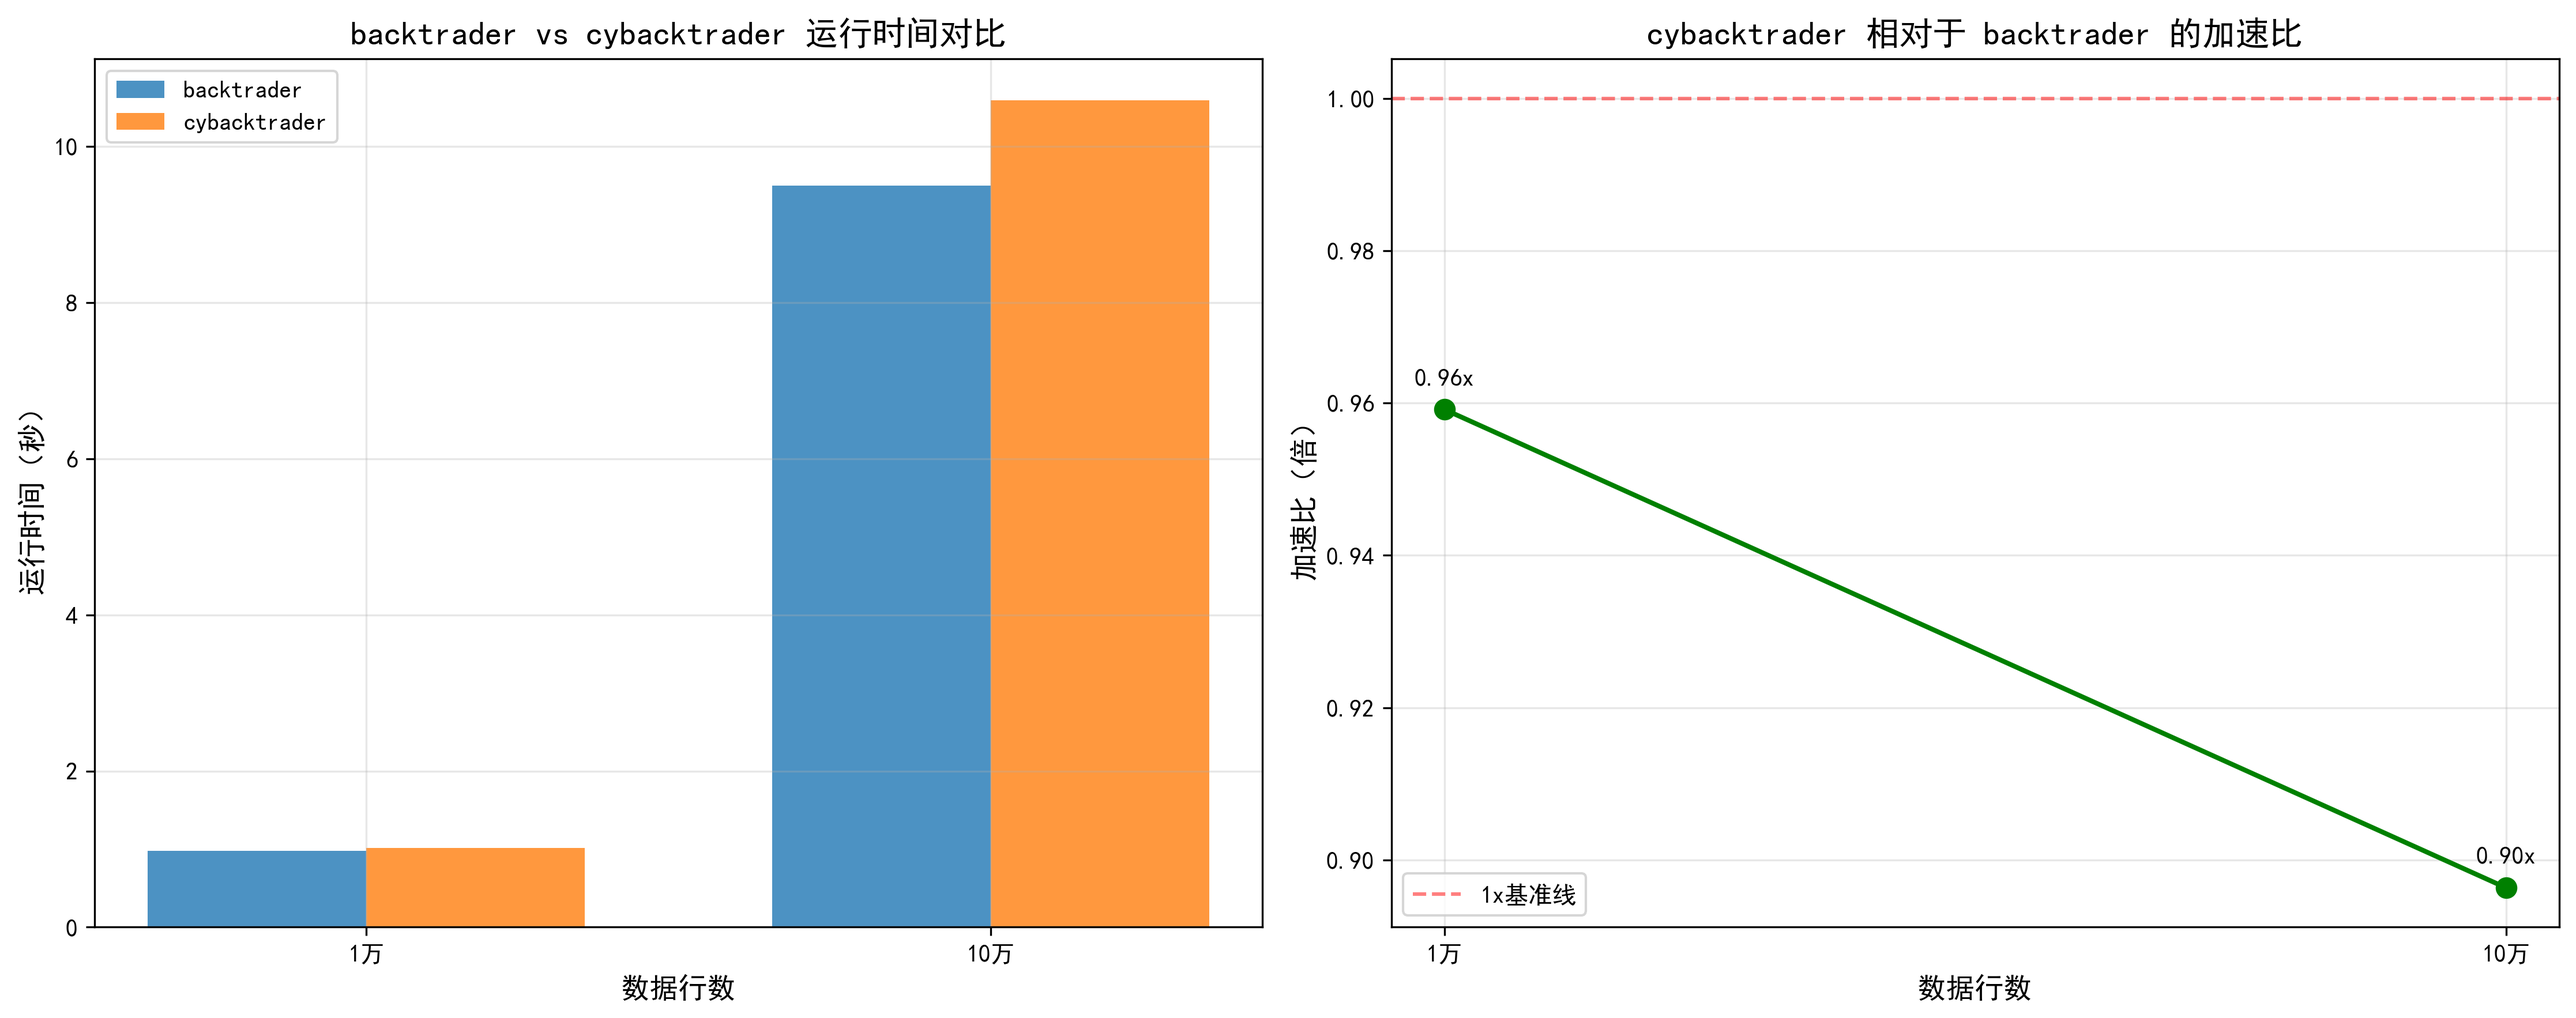
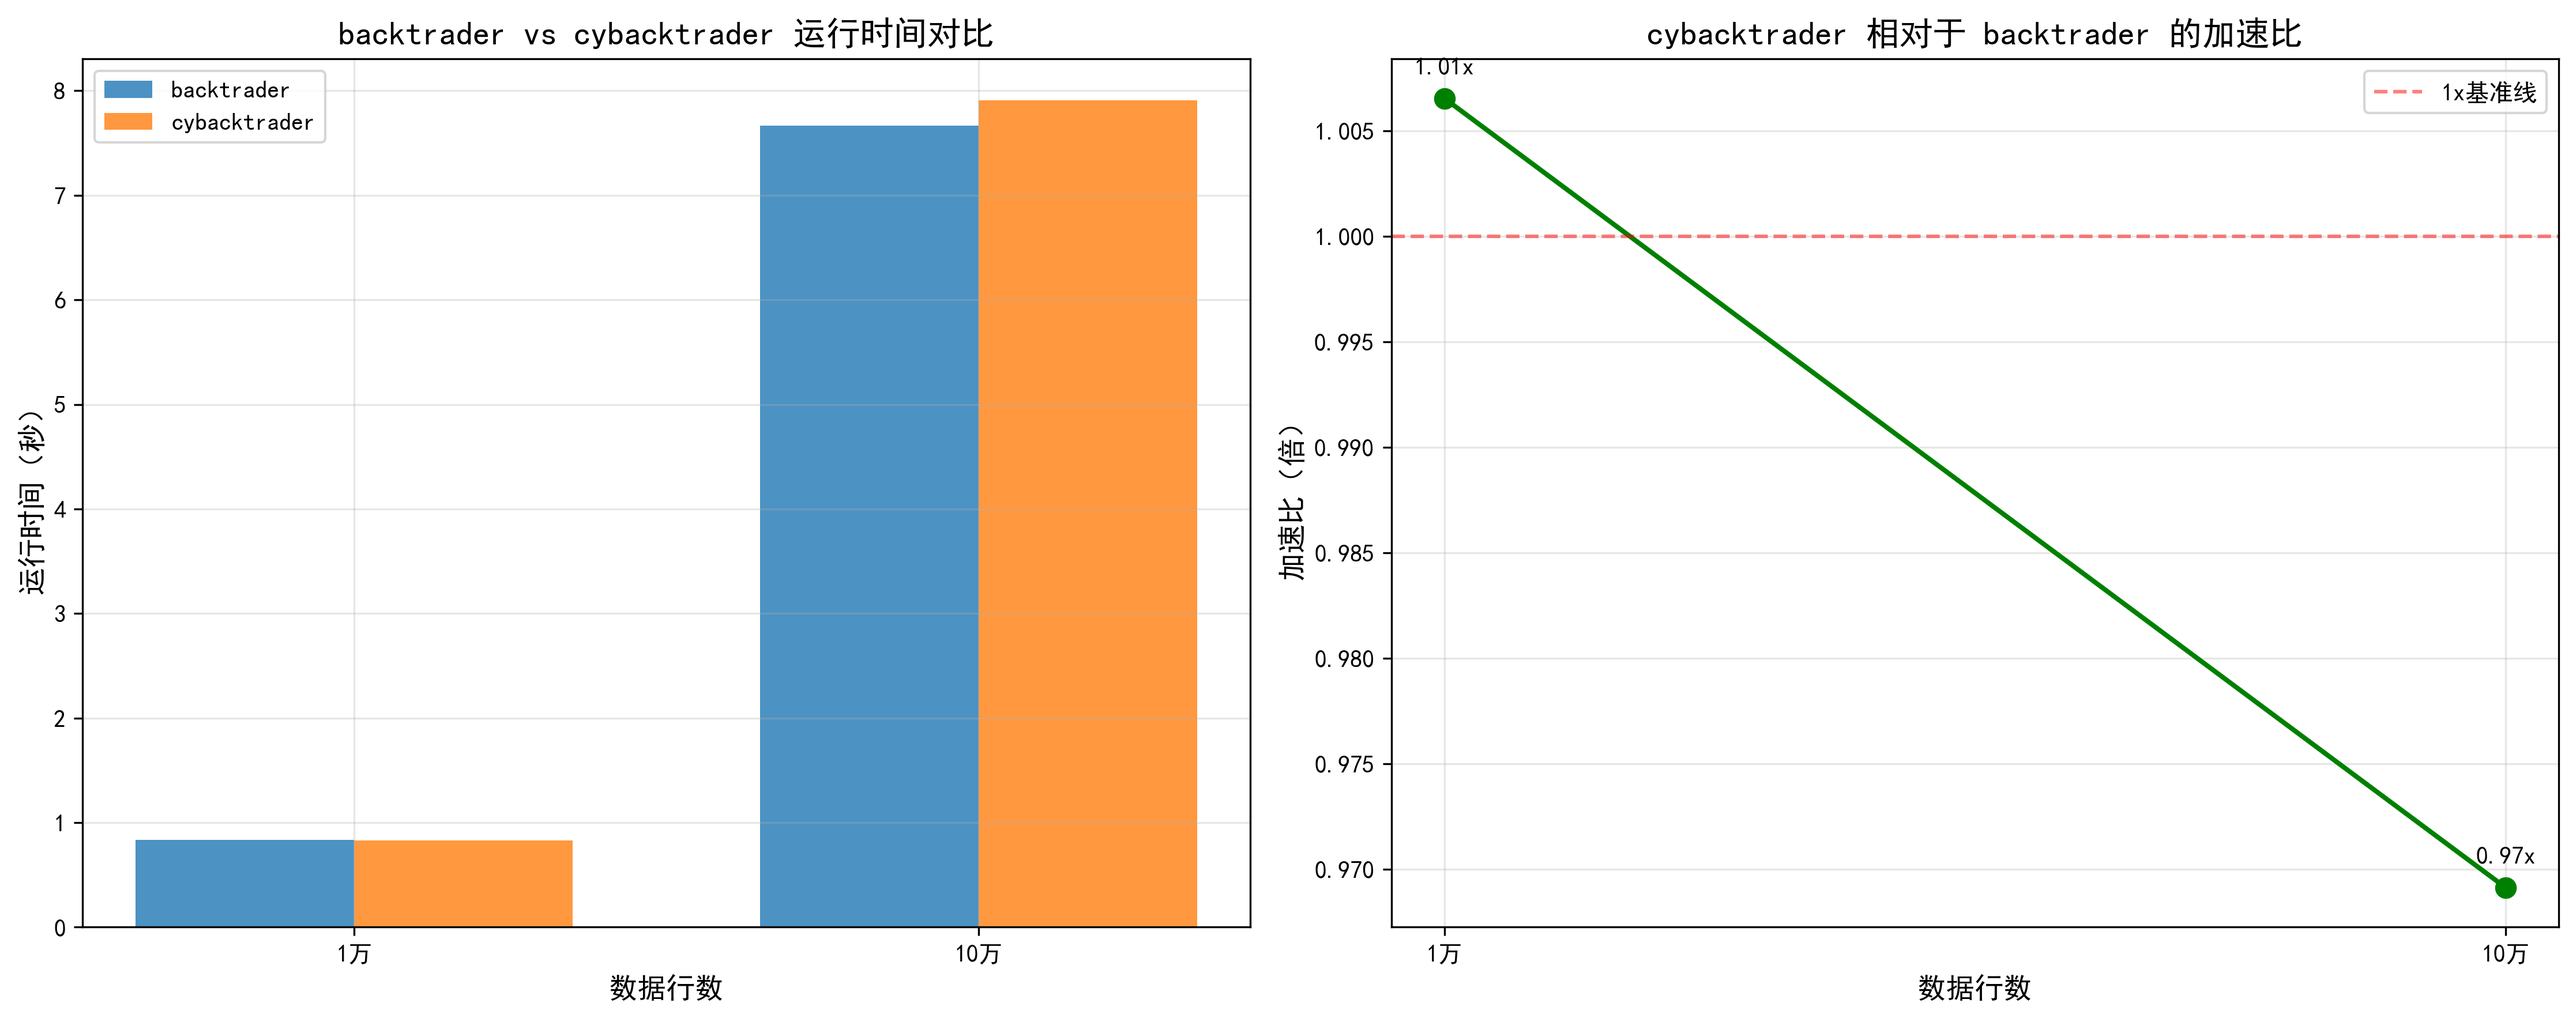
update crossover

diff --git a/需求3.md b/需求3.md
@@ -4,3 +4,170 @@
 2. 确保优化一个文件之后, 运行2,3，能保证2,3都能成功，然后进行下一个
 3. pip install -U .
 4. pytest tests -n 8
+5. 完成一个文件之后，git commit 一个文件，然后进行下一个
+6. 目前暂时不需要进行性能测试，等所有的pyx文件都优化完之后才需要进行性能测试
+
+优化清单（勾选表示已完成优化；状态仅标注“是否已含Cython指令/是否含cdef”作为参考，仍建议逐文件深度重构与验证）
+
+- [ ] cybacktrader\functions.pyx | Cython指令: 是 | cdef: 是
+- [ ] cybacktrader\mathsupport.pyx | Cython指令: 否 | cdef: 否
+- [ ] cybacktrader\indicators\basicops.pyx | Cython指令: 是 | cdef: 是
+- [ ] cybacktrader\writer.pyx | Cython指令: 否 | cdef: 否
+- [ ] cybacktrader\version.pyx | Cython指令: 否 | cdef: 否
+- [ ] cybacktrader\utils\py3.pyx | Cython指令: 否 | cdef: 否
+- [ ] cybacktrader\utils\ordereddefaultdict.pyx | Cython指令: 否 | cdef: 否
+- [ ] cybacktrader\utils\fractal.pyx | Cython指令: 否 | cdef: 否
+- [ ] cybacktrader\utils\flushfile.pyx | Cython指令: 否 | cdef: 否
+- [ ] cybacktrader\utils\dateintern.pyx | Cython指令: 否 | cdef: 否
+- [ ] cybacktrader\utils\date.pyx | Cython指令: 否 | cdef: 否
+- [ ] cybacktrader\utils\autodict.pyx | Cython指令: 否 | cdef: 否
+- [ ] cybacktrader\tradingcal.pyx | Cython指令: 否 | cdef: 否
+- [ ] cybacktrader\trade.pyx | Cython指令: 否 | cdef: 否
+- [ ] cybacktrader\timer.pyx | Cython指令: 否 | cdef: 否
+- [ ] cybacktrader\talib.pyx | Cython指令: 否 | cdef: 否
+- [ ] cybacktrader\stores\vcstore.pyx | Cython指令: 否 | cdef: 否
+- [ ] cybacktrader\stores\vchartfile.pyx | Cython指令: 否 | cdef: 否
+- [ ] cybacktrader\stores\oandastore.pyx | Cython指令: 否 | cdef: 否
+- [ ] cybacktrader\stores\ibstore.pyx | Cython指令: 否 | cdef: 否
+- [ ] cybacktrader\stores\ctpstore.pyx | Cython指令: 否 | cdef: 否
+- [ ] cybacktrader\store.pyx | Cython指令: 否 | cdef: 否
+- [ ] cybacktrader\stores\ccxtstore.pyx | Cython指令: 否 | cdef: 否
+- [ ] cybacktrader\sizers\percents_sizer.pyx | Cython指令: 否 | cdef: 否
+- [ ] cybacktrader\sizers\fixedsize.pyx | Cython指令: 否 | cdef: 否
+- [ ] cybacktrader\sizer.pyx | Cython指令: 否 | cdef: 否
+- [ ] cybacktrader\signal.pyx | Cython指令: 否 | cdef: 否
+- [ ] cybacktrader\resamplerfilter.pyx | Cython指令: 否 | cdef: 否
+- [ ] cybacktrader\position.pyx | Cython指令: 否 | cdef: 否
+- [ ] cybacktrader\plot\utils.pyx | Cython指令: 否 | cdef: 否
+- [ ] cybacktrader\plot\scheme.pyx | Cython指令: 否 | cdef: 否
+- [ ] cybacktrader\plot\plot.pyx | Cython指令: 否 | cdef: 否
+- [ ] cybacktrader\plot\multicursor.pyx | Cython指令: 否 | cdef: 否
+- [ ] cybacktrader\plot\locator.pyx | Cython指令: 否 | cdef: 否
+- [ ] cybacktrader\plot\formatters.pyx | Cython指令: 否 | cdef: 否
+- [ ] cybacktrader\plot\finance.pyx | Cython指令: 否 | cdef: 否
+- [ ] cybacktrader\order.pyx | Cython指令: 否 | cdef: 否
+- [ ] cybacktrader\observers\trades.pyx | Cython指令: 否 | cdef: 否
+- [ ] cybacktrader\observers\timereturn.pyx | Cython指令: 否 | cdef: 否
+- [ ] cybacktrader\observers\drawdown.pyx | Cython指令: 否 | cdef: 否
+- [ ] cybacktrader\observers\logreturns.pyx | Cython指令: 否 | cdef: 否
+- [ ] cybacktrader\observers\buysell.pyx | Cython指令: 否 | cdef: 否
+- [ ] cybacktrader\observers\broker.pyx | Cython指令: 否 | cdef: 否
+- [ ] cybacktrader\observer.pyx | Cython指令: 否 | cdef: 否
+- [ ] cybacktrader\observers\benchmark.pyx | Cython指令: 否 | cdef: 否
+- [ ] cybacktrader\metabase.pyx | Cython指令: 否 | cdef: 否
+- [ ] cybacktrader\lineroot.pyx | Cython指令: 否 | cdef: 否
+- [ ] cybacktrader\lineiterator.pyx | Cython指令: 否 | cdef: 否
+- [ ] cybacktrader\indicators\zlind.pyx | Cython指令: 否 | cdef: 否
+- [ ] cybacktrader\indicators\zlema.pyx | Cython指令: 否 | cdef: 否
+- [ ] cybacktrader\indicators\wma.pyx | Cython指令: 否 | cdef: 否
+- [ ] cybacktrader\indicators\williams.pyx | Cython指令: 否 | cdef: 否
+- [ ] cybacktrader\indicators\vortex.pyx | Cython指令: 否 | cdef: 否
+- [ ] cybacktrader\indicators\ultimateoscillator.pyx | Cython指令: 否 | cdef: 否
+- [ ] cybacktrader\indicators\tsi.pyx | Cython指令: 否 | cdef: 否
+- [ ] cybacktrader\indicators\trix.pyx | Cython指令: 否 | cdef: 否
+- [ ] cybacktrader\indicators\smma.pyx | Cython指令: 否 | cdef: 否
+- [ ] cybacktrader\indicators\stochastic.pyx | Cython指令: 否 | cdef: 否
+- [ ] cybacktrader\indicators\sma.pyx | Cython指令: 否 | cdef: 否
+- [ ] cybacktrader\indicators\rsi.pyx | Cython指令: 否 | cdef: 否
+- [ ] cybacktrader\indicators\rmi.pyx | Cython指令: 否 | cdef: 否
+- [ ] cybacktrader\indicators\psar.pyx | Cython指令: 否 | cdef: 否
+- [ ] cybacktrader\indicators\priceoscillator.pyx | Cython指令: 否 | cdef: 否
+- [ ] cybacktrader\indicators\prettygoodoscillator.pyx | Cython指令: 否 | cdef: 否
+- [ ] cybacktrader\indicators\pivotpoint.pyx | Cython指令: 否 | cdef: 否
+- [ ] cybacktrader\indicators\percentrank.pyx | Cython指令: 否 | cdef: 否
+- [ ] cybacktrader\indicators\percentchange.pyx | Cython指令: 否 | cdef: 否
+- [ ] cybacktrader\indicators\oscillator.pyx | Cython指令: 否 | cdef: 否
+- [ ] cybacktrader\indicators\ols.pyx | Cython指令: 否 | cdef: 否
+- [ ] cybacktrader\indicators\myind.pyx | Cython指令: 否 | cdef: 否
+- [ ] cybacktrader\indicators\momentum.pyx | Cython指令: 否 | cdef: 否
+- [ ] cybacktrader\indicators\macd.pyx | Cython指令: 否 | cdef: 否
+- [ ] cybacktrader\indicators\mabase.pyx | Cython指令: 否 | cdef: 否
+- [ ] cybacktrader\indicators\lrsi.pyx | Cython指令: 否 | cdef: 否
+- [ ] cybacktrader\indicators\kst.pyx | Cython指令: 否 | cdef: 否
+- [ ] cybacktrader\indicators\ichimoku.pyx | Cython指令: 否 | cdef: 否
+- [ ] cybacktrader\indicators\kama.pyx | Cython指令: 否 | cdef: 否
+- [ ] cybacktrader\indicators\hurst.pyx | Cython指令: 否 | cdef: 否
+- [ ] cybacktrader\indicators\hma.pyx | Cython指令: 否 | cdef: 否
+- [ ] cybacktrader\indicators\heikinashi.pyx | Cython指令: 否 | cdef: 否
+- [ ] cybacktrader\indicators\hadelta.pyx | Cython指令: 否 | cdef: 否
+- [ ] cybacktrader\indicators\envelope.pyx | Cython指令: 否 | cdef: 否
+- [ ] cybacktrader\indicators\ema.pyx | Cython指令: 否 | cdef: 否
+- [ ] cybacktrader\indicators\dv2.pyx | Cython指令: 否 | cdef: 否
+- [ ] cybacktrader\indicators\dpo.pyx | Cython指令: 否 | cdef: 否
+- [ ] cybacktrader\indicators\dma.pyx | Cython指令: 否 | cdef: 否
+- [ ] cybacktrader\indicators\directionalmove.pyx | Cython指令: 否 | cdef: 否
+- [ ] cybacktrader\indicators\deviation.pyx | Cython指令: 否 | cdef: 否
+- [ ] cybacktrader\indicators\dema.pyx | Cython指令: 否 | cdef: 否
+- [x] cybacktrader\indicators\crossover.pyx | Cython指令: 是 | cdef: 是
+- [ ] cybacktrader\indicators\contrib\vortex.pyx | Cython指令: 否 | cdef: 否
+- [ ] cybacktrader\indicators\cci.pyx | Cython指令: 否 | cdef: 否
+- [ ] cybacktrader\indicators\bollinger.pyx | Cython指令: 否 | cdef: 否
+- [ ] cybacktrader\indicators\awesomeoscillator.pyx | Cython指令: 否 | cdef: 否
+- [ ] cybacktrader\indicators\atr.pyx | Cython指令: 否 | cdef: 否
+- [ ] cybacktrader\indicators\aroon.pyx | Cython指令: 否 | cdef: 否
+- [ ] cybacktrader\indicators\accdecoscillator.pyx | Cython指令: 否 | cdef: 否
+- [ ] cybacktrader\flt.pyx | Cython指令: 否 | cdef: 否
+- [ ] cybacktrader\filters\session.pyx | Cython指令: 否 | cdef: 否
+- [ ] cybacktrader\filters\renko.pyx | Cython指令: 否 | cdef: 否
+- [ ] cybacktrader\filters\heikinashi.pyx | Cython指令: 否 | cdef: 否
+- [ ] cybacktrader\filters\daysteps.pyx | Cython指令: 否 | cdef: 否
+- [ ] cybacktrader\filters\datafilter.pyx | Cython指令: 否 | cdef: 否
+- [ ] cybacktrader\filters\datafiller.pyx | Cython指令: 否 | cdef: 否
+- [ ] cybacktrader\filters\bsplitter.pyx | Cython指令: 否 | cdef: 否
+- [ ] cybacktrader\filters\calendardays.pyx | Cython指令: 否 | cdef: 否
+- [ ] cybacktrader\fillers.pyx | Cython指令: 否 | cdef: 否
+- [ ] cybacktrader\feeds\yahoo.pyx | Cython指令: 否 | cdef: 否
+- [ ] cybacktrader\feeds\vchartfile.pyx | Cython指令: 否 | cdef: 否
+- [ ] cybacktrader\feeds\vchartcsv.pyx | Cython指令: 否 | cdef: 否
+- [ ] cybacktrader\feeds\vchart.pyx | Cython指令: 否 | cdef: 否
+- [ ] cybacktrader\feeds\vcdata.pyx | Cython指令: 否 | cdef: 否
+- [ ] cybacktrader\feeds\sierrachart.pyx | Cython指令: 否 | cdef: 否
+- [ ] cybacktrader\feeds\rollover.pyx | Cython指令: 否 | cdef: 否
+- [ ] cybacktrader\feeds\quandl.pyx | Cython指令: 否 | cdef: 否
+- [ ] cybacktrader\feeds\oanda.pyx | Cython指令: 否 | cdef: 否
+- [ ] cybacktrader\feeds\pandafeed.pyx | Cython指令: 否 | cdef: 否
+- [ ] cybacktrader\feeds\mt4csv.pyx | Cython指令: 否 | cdef: 否
+- [ ] cybacktrader\feeds\influxfeed.pyx | Cython指令: 否 | cdef: 否
+- [ ] cybacktrader\feeds\ibdata.pyx | Cython指令: 否 | cdef: 否
+- [ ] cybacktrader\feeds\ctpdata.pyx | Cython指令: 否 | cdef: 否
+- [ ] cybacktrader\feeds\csvgeneric.pyx | Cython指令: 否 | cdef: 否
+- [ ] cybacktrader\feeds\chainer.pyx | Cython指令: 否 | cdef: 否
+- [ ] cybacktrader\feeds\ccxtfeed.pyx | Cython指令: 否 | cdef: 否
+- [ ] cybacktrader\feeds\btcsv.pyx | Cython指令: 否 | cdef: 否
+- [ ] cybacktrader\feeds\blaze.pyx | Cython指令: 否 | cdef: 否
+- [ ] cybacktrader\feed.pyx | Cython指令: 否 | cdef: 否
+- [ ] cybacktrader\errors.pyx | Cython指令: 否 | cdef: 否
+- [ ] cybacktrader\dataseries.pyx | Cython指令: 否 | cdef: 否
+- [ ] cybacktrader\commissions\dc_commission.pyx | Cython指令: 否 | cdef: 否
+- [ ] cybacktrader\comminfo.pyx | Cython指令: 否 | cdef: 否
+- [ ] cybacktrader\cerebro.pyx | Cython指令: 否 | cdef: 否
+- [ ] cybacktrader\btrun\btrun.pyx | Cython指令: 否 | cdef: 否
+- [ ] cybacktrader\brokers\vcbroker.pyx | Cython指令: 否 | cdef: 否
+- [ ] cybacktrader\brokers\oandabroker.pyx | Cython指令: 否 | cdef: 否
+- [ ] cybacktrader\brokers\ibbroker.pyx | Cython指令: 否 | cdef: 否
+- [ ] cybacktrader\brokers\ctpbroker.pyx | Cython指令: 否 | cdef: 否
+- [ ] cybacktrader\brokers\ccxtbroker.pyx | Cython指令: 否 | cdef: 否
+- [ ] cybacktrader\brokers\bbroker.pyx | Cython指令: 否 | cdef: 否
+- [ ] cybacktrader\broker.pyx | Cython指令: 否 | cdef: 否
+- [ ] cybacktrader\analyzers\vwr.pyx | Cython指令: 否 | cdef: 否
+- [ ] cybacktrader\analyzers\transactions.pyx | Cython指令: 否 | cdef: 否
+- [ ] cybacktrader\analyzers\tradeanalyzer.pyx | Cython指令: 否 | cdef: 否
+- [ ] cybacktrader\analyzers\total_value.pyx | Cython指令: 否 | cdef: 否
+- [ ] cybacktrader\analyzers\timereturn.pyx | Cython指令: 否 | cdef: 否
+- [ ] cybacktrader\analyzers\sqn.pyx | Cython指令: 否 | cdef: 否
+- [ ] cybacktrader\analyzers\sharpe_ratio_stats.pyx | Cython指令: 否 | cdef: 否
+- [ ] cybacktrader\analyzers\sharpe.pyx | Cython指令: 否 | cdef: 否
+- [ ] cybacktrader\analyzers\returns.pyx | Cython指令: 否 | cdef: 否
+- [ ] cybacktrader\analyzers\pyfolio.pyx | Cython指令: 否 | cdef: 否
+- [ ] cybacktrader\analyzers\positions.pyx | Cython指令: 否 | cdef: 否
+- [ ] cybacktrader\analyzers\periodstats.pyx | Cython指令: 否 | cdef: 否
+- [ ] cybacktrader\analyzers\logreturnsrolling.pyx | Cython指令: 否 | cdef: 否
+- [ ] cybacktrader\analyzers\leverage.pyx | Cython指令: 否 | cdef: 否
+- [ ] cybacktrader\analyzers\drawdown.pyx | Cython指令: 否 | cdef: 否
+- [ ] cybacktrader\analyzers\calmar.pyx | Cython指令: 否 | cdef: 否
+- [ ] cybacktrader\analyzer.pyx | Cython指令: 否 | cdef: 否
+- [ ] cybacktrader\analyzers\annualreturn.pyx | Cython指令: 否 | cdef: 否
+- [ ] cybacktrader\strategy.pyx | Cython指令: 否 | cdef: 否
+- [ ] cybacktrader\lineseries.pyx | Cython指令: 是 | cdef: 是
+- [ ] cybacktrader\indicator.pyx | Cython指令: 是 | cdef: 是
+- [ ] cybacktrader\linebuffer.pyx | Cython指令: 是 | cdef: 是
